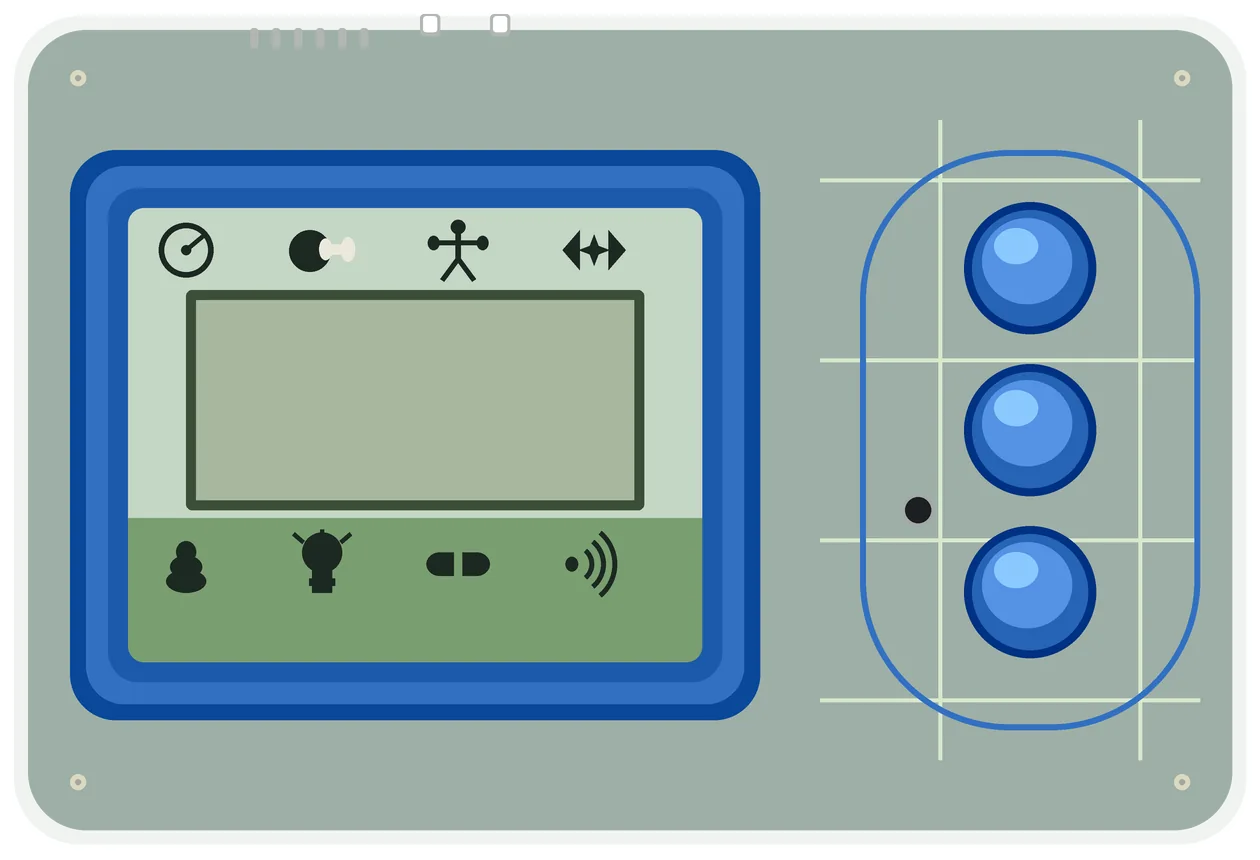
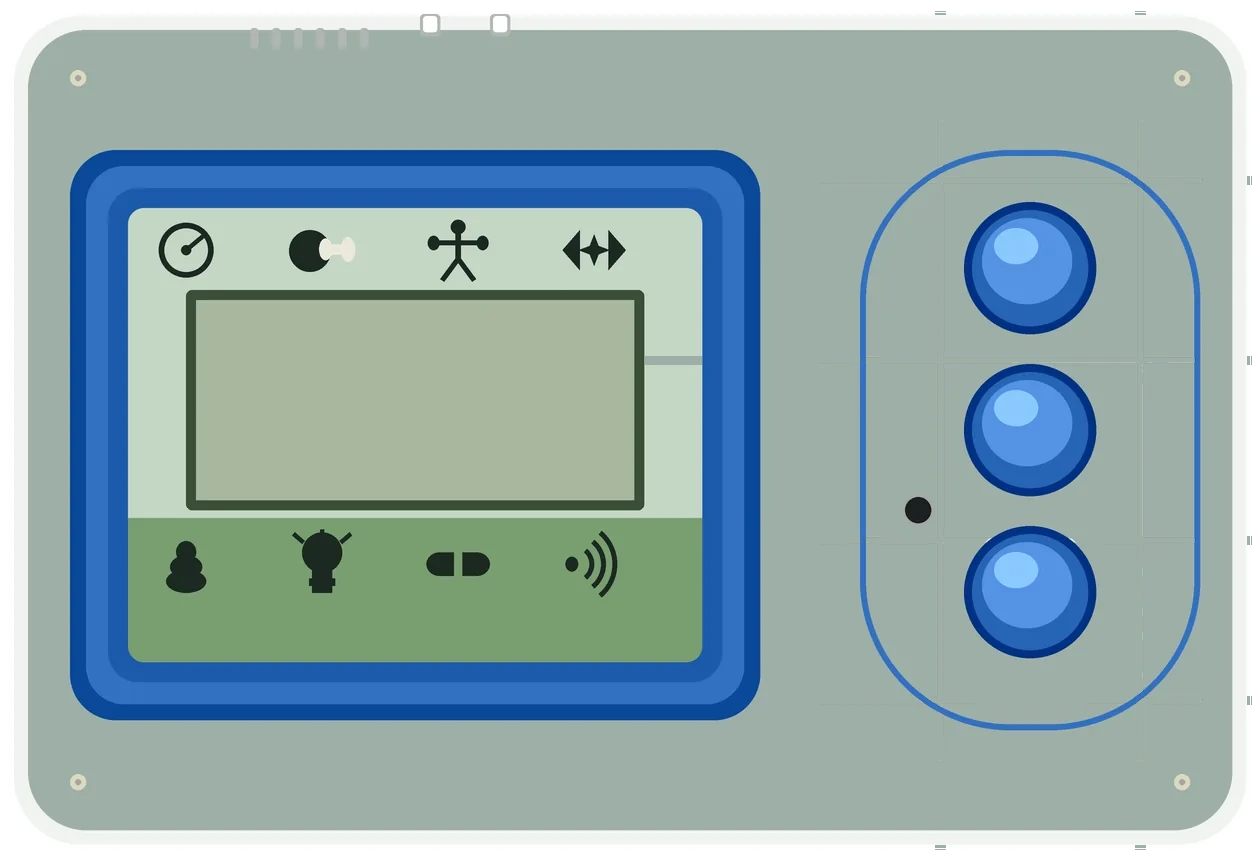
Clear the construction grid on every point-five Pendulum shell and show 20th eggs on picker paper.

Changed region(s): [[0.65, 0.1512, 0.9595, 0.8767], [0.4952, 0.393, 0.5571, 0.4233], [0.7429, 0.8465, 0.7738, 0.8767]]

diff --git a/tests/offline-clock.test.js b/tests/offline-clock.test.js
@@ -23,7 +23,7 @@ const html = fs.readFileSync(path.join(ROOT, 'index.html'), 'utf8');
 const manifest = JSON.parse(fs.readFileSync(path.join(ROOT, 'manifest.json'), 'utf8'));
 const block = sw.slice(sw.indexOf('var ASSETS = ['), sw.indexOf('];', sw.indexOf('var ASSETS = [')));
 const assets = new Set((block.match(/'([^']+)'/g) || []).map((s) => s.slice(1, -1)));
-eq((sw.match(/var CACHE = '([^']+)'/) || [])[1], 'digivice-v82', 'cache name bumped to digivice-v82');
+eq((sw.match(/var CACHE = '([^']+)'/) || [])[1], 'digivice-v83', 'cache name bumped to digivice-v83');
 const refs = [];
 html.replace(/(?:src|href)="(\.\/[^"#?]+)"/g, (m, u) => { refs.push(u); return m; });
 ok(refs.length > 40, 'index.html local refs parsed (' + refs.length + ')');

diff --git a/sw.js b/sw.js
@@ -1,4 +1,4 @@
-/* Offline cache for 數碼怪獸對打機 — v82 (brick meal loses one piece per bite)
+/* Offline cache for 數碼怪獸對打機 — v83 (point-five shells drop the construction grid)
  * - Precaches every file index.html loads plus ALL device shells (WebP,
  *   ~2.4 MB), so any device works on an offline first launch.
  * - Precache requests bypass the HTTP cache (cache: 'reload'), so a new
@@ -9,7 +9,7 @@
  * - Only same-origin, non-redirected, 200 'basic' responses are cached.
  * - Old caches are deleted only after the new one is complete.
  */
-var CACHE = 'digivice-v82';
+var CACHE = 'digivice-v83';
 var APP_SHELL = './index.html';
 var ASSETS = [
   './',

diff --git a/js/ui.js b/js/ui.js
@@ -2760,9 +2760,9 @@
         var src = window.SpriteAtlas.renderToImageData(sp, 'idle0', 1);
         var cx = c.getContext('2d');
         cx.imageSmoothingEnabled = false;
-        // Original Pendulum eggs are LCD ink on pale paper. The card is
+        // Pendulum and 20th eggs are LCD ink on pale paper. The card is
         // dark, so paint the same paper behind them or the shell vanishes.
-        if (/^pen_(?!20)/.test(String(egg.dataEgg))) {
+        if (/^pen_/.test(String(egg.dataEgg))) {
           cx.fillStyle = '#c4d6c4';
           cx.fillRect(0, 0, 32, 32);
         }
